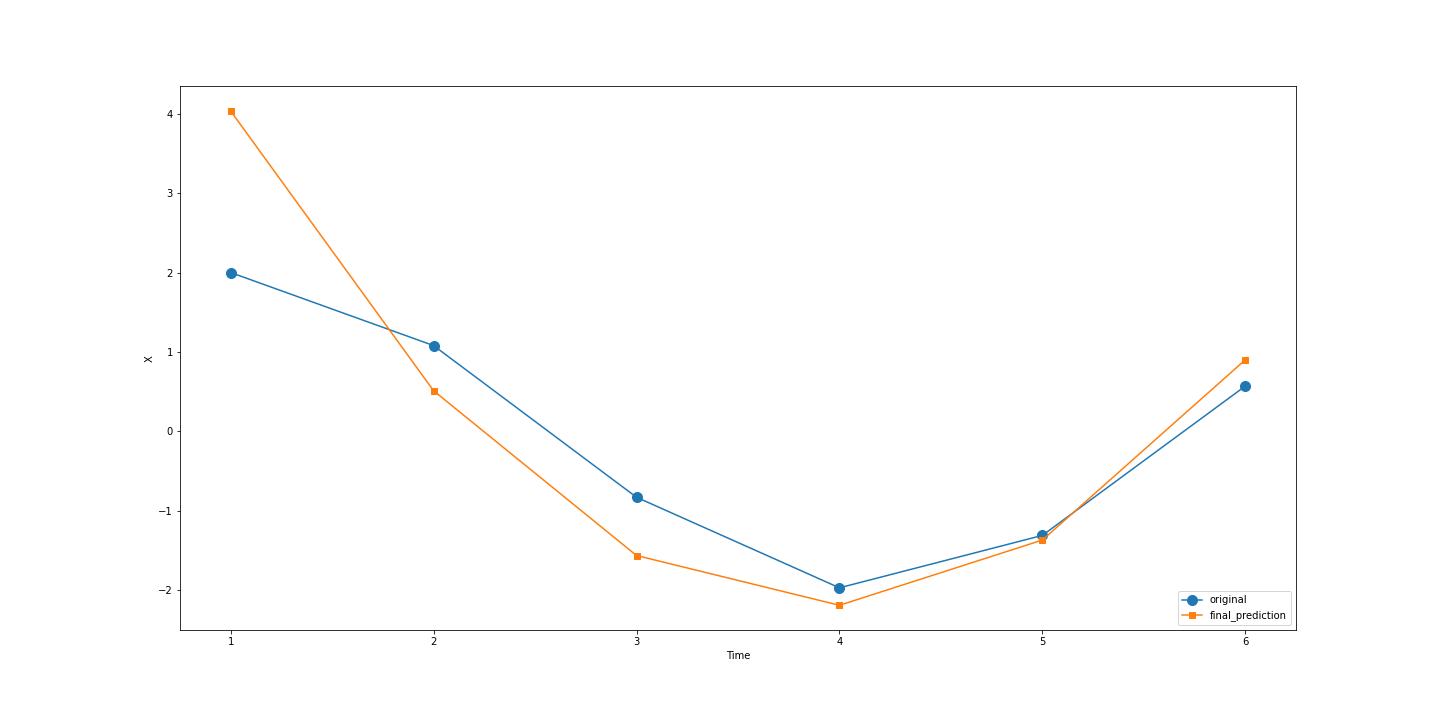
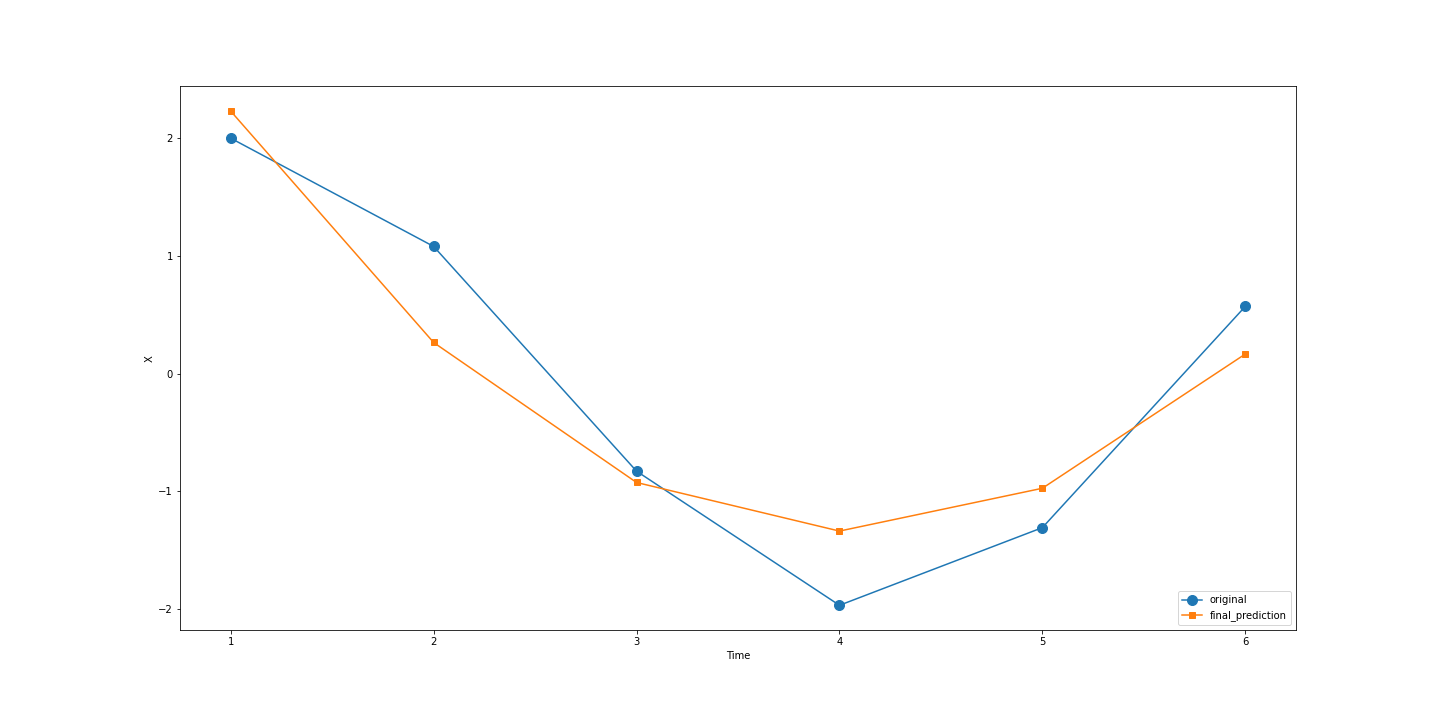
added constant speed f(x) signature

diff --git a/hw1.py b/hw1.py
@@ -30,8 +30,6 @@ def dAlpha1(t,x,x_pred):
 def dAlpha0(x,x_pred):
     return x - x_pred
 
-#def dAlpha22(t,x,x_pred):
-#    return 2t*
 
 # evaluates each partial derivative (coefficient)
 # re-used for alpha2, alpha1 and alpha0
@@ -39,22 +37,23 @@ def gradient(n,dAlpha):
     return (-2) * sum(dAlpha)
 
 
-def gradient_descent(X,t,learn_rate,coeffs,pa0,pa1,pa2):
+def gradient_descent(X,t,learn_rate,coeffs,partial0,partial1,partial2):
     
     X_pred = [fX(ti,*coeffs) for ti in t]
-    partials_alpha2 = [pa2(t[i], X[i], X_pred[i]) for i,x in enumerate(X)]
-    partials_alpha1 = [pa1(t[i], X[i], X_pred[i]) for i,x in enumerate(X)]
-    partials_alpha0 = [pa0(X[i], X_pred[i]) for i,x in enumerate(X)]
     
+    partials_alpha1 = [partial1(t[i], X[i], X_pred[i]) for i,x in enumerate(X)]
+    partials_alpha0 = [partial0(X[i], X_pred[i]) for i,x in enumerate(X)]
+    partials_alpha2 = [partial2(t[i], X[i], X_pred[i]) for i,x in enumerate(X)]
+        
     print(f'''partials_aplha2\t{partials_alpha2}
 partials_alpha1\t{partials_alpha1}
 partials_alpha0\t{partials_alpha0}''')
-    
+ 
     # update model coefficients
     coeffs[0] = coeffs[0] - learn_rate * gradient(len(partials_alpha2),partials_alpha2)
     coeffs[1] = coeffs[1] - learn_rate * gradient(len(partials_alpha1),partials_alpha1)
     coeffs[2] = coeffs[2] - learn_rate * gradient(len(partials_alpha0),partials_alpha0)
-    
+
     print('coeffs\t',coeffs)
     
     X_pred = [fX(ti,*coeffs) for ti in t]
@@ -67,7 +66,7 @@ partials_alpha0\t{partials_alpha0}''')
     return loss,coeffs,X_pred
 
 
-def constant_speed(X,t,coeffs,max_iter,rate,tol):
+def constant_acceleration(X,t,coeffs,max_iter,rate,tol):
     
     losses = []
     alpha2 = None
@@ -95,33 +94,22 @@ def constant_speed(X,t,coeffs,max_iter,rate,tol):
     coeffs = [alpha2,alpha1,alpha0]
     return X_pred,coeffs,losses
  
+def constant_speed():
+    '''
+        Should perform gradient descent on the partial derivatives of
+        x(t) = a1 + a2*t as Susanne wrote in the latex doc
+        
+        Objective function
+        (xi - (a1 + a2*t))**2
 
-def constant_acc(X,t,coeffs,max_iter,rate,tol):
-    losses = []
-    alpha2 = None
-    alpha1 = None
-    alpha0 = None
-    i = 0
-
-    while i < max_iter:
-        
-        loss,new_coeffs,X_pred = gradient_descent(X,t,rate,coeffs)
-        losses.append(loss)
-        
-        deltaA2 = numpy.abs(coeffs[0] - new_coeffs[0])
-        deltaA1 = numpy.abs(coeffs[1] - new_coeffs[1])
-        deltaA0 = numpy.abs(coeffs[2] - new_coeffs[2])
-        
-        if all(delta < tol for delta in [deltaA0,deltaA1,deltaA2]) or loss < tol:
-            alpha2 = coeffs[0]
-            alpha1 = coeffs[1] 
-            alpha0 = coeffs[2]
-         
-        
-        i += 1
+        Returns
+        -------
+        Final model coefficients and mean squared errors (for n-iterations)
     
-    coeffs = [alpha2,alpha1,alpha0]
-    return X_pred,coeffs,losses
+        '''
+    
+    pass
+
 
 def main():
     
@@ -133,15 +121,18 @@ def main():
             'Y': [0,1.68,1.82,0.28,-1.51,-1.91],
             'Z': [1,2.38,2.49,2.15,2.59,4.32]}
     t = [1,2,3,4,5,6]
-    original_coeffs = [9,-20,2]  
-    coeffs = [9,-20,2]
+    original_coeffs = [9,-6,2]  
+    coeffs = [9,-6,2]
     max_iter = 10000
     rate = 0.0001
     tol = 0.01
+    total_loss = []
     for j,X in enumerate(list(data.values())):
         
         # final prediction, X_pred, obtained after minimising sum of squares and final model coefficients
-        X_pred,final_coeffs,losses = constant_speed(X,t,coeffs,max_iter,rate,tol)
+        X_pred,final_coeffs,losses = constant_acceleration(X,t,coeffs,max_iter,rate,tol)
+        total_loss.append(losses)
+        
         print('original coeffs\t',original_coeffs)
         print('final coeffs\t',final_coeffs)
         
@@ -154,6 +145,7 @@ def main():
         plt.savefig(f'output{list(data.keys())[j]}.png')
         plt.show()
     
+    print(sum([total_loss[0][-1],total_loss[1][-1],total_loss[2][-1]]))
     
     
     
